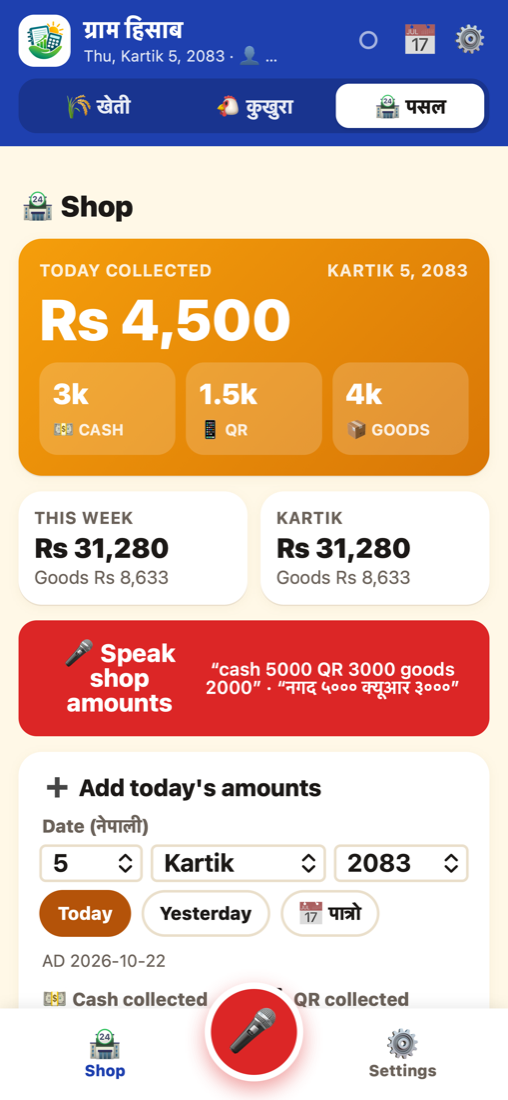
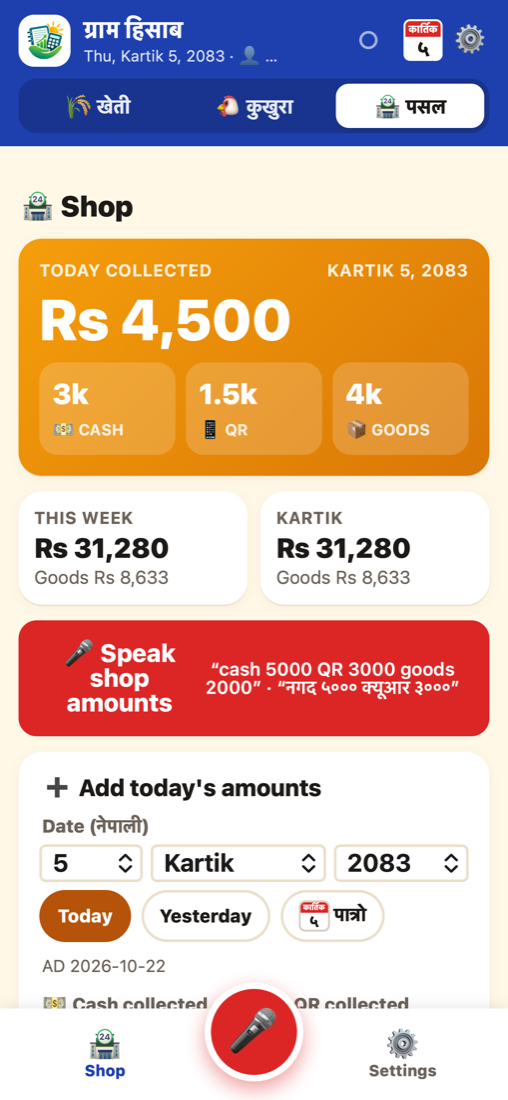
Patro: today's Nepali date on the calendar button and chips; today filled green with आज in the grid

diff --git a/assets/ui.js b/assets/ui.js
@@ -57,6 +57,7 @@ function renderHeader() {
   const t = today(), b = adToBs(t), d = new Date();
   $('#topDate').textContent = DAY[d.getDay()] + ', ' + BS_MONTHS[b.m - 1] + ' ' + b.d + ', ' + b.y + ' · 👤 ' + currentUser();
   $('#priceChip').innerHTML = '💰 Prices';
+  $('#calBtn').innerHTML = calTile(true);
   $('#priceChip').classList.toggle('hidden', section !== 'poultry');
   if (isOldApp()) $('.appname').textContent = 'ग्राम हिसाब (पुरानो)';
   updateSyncDot();
@@ -690,7 +691,7 @@ function openDay(date, lotId, fromCal) {
   const sh = shopSum(shop);
   const kh = lotId || !fromCal ? { line: '', list: '' } : dayKhetiHtml(date);
   const wd = WEEK_NE[weekday(date)] + 'बार', bb = adToBs(date);
-  openSheet(`${lot ? `<button class="btn sm ghost" data-act="openLot" data-id="${lot.id}">‹ Back to ${esc(lot.name)}</button>` : `<button class="btn sm ghost" data-act="openCalendar" data-d="${date}">‹ 📅 ${BS_MONTHS_NE[bb.m - 1]} ${neNum(bb.y)}</button>`}
+  openSheet(`${lot ? `<button class="btn sm ghost" data-act="openLot" data-id="${lot.id}">‹ Back to ${esc(lot.name)}</button>` : `<button class="btn sm ghost" data-act="openCalendar" data-d="${date}">‹ ${calTile()} ${BS_MONTHS_NE[bb.m - 1]} ${neNum(bb.y)}</button>`}
     <h2>${fmtDate(date, true)}${lot ? ' · ' + esc(lot.name) : ''}</h2>
     <div class="small muted" style="margin:-6px 0 10px">${BS_MONTHS_NE[bb.m - 1]} ${neNum(bb.d)}, ${neNum(bb.y)} · ${wd} · AD ${date}</div>
     <div class="summary">
@@ -1042,7 +1043,7 @@ function bsDateHtml(key, adIso) {
     <div class="row between" style="margin-top:6px">
       <div class="chips"><button class="chip sm ${adIso === today() ? 'on' : ''}" data-act="bsQuick" data-key="${key}" data-days="0">Today</button>
       <button class="chip sm ${adIso === addDays(today(), -1) ? 'on' : ''}" data-act="bsQuick" data-key="${key}" data-days="-1">Yesterday</button>
-      <button class="chip sm" data-act="bsCalToggle" data-key="${key}">📅 पात्रो</button></div>
+      <button class="chip sm" data-act="bsCalToggle" data-key="${key}">${calTile()} पात्रो</button></div>
       <span class="hint" data-bshint="${key}">AD ${adIso}</span>
     </div>
     <div data-bscalbox="${key}"></div>`;

diff --git a/assets/calendar.js b/assets/calendar.js
@@ -12,6 +12,7 @@ const AD_MON = ['Jan', 'Feb', 'Mar', 'Apr', 'May', 'Jun', 'Jul', 'Aug', 'Sep', '
 const POULTRY_KINDS = ['sale', 'grainsale', 'purchase', 'event'];
 const weekday = ad => new Date(ad + 'T12:00:00').getDay();
 let calYM = null;
+function calTile(big) { const b = adToBs(today()); return `<span class="caltile${big ? ' big' : ''}"><i>${BS_MONTHS_NE[b.m - 1]}</i><b>${neNum(b.d)}</b></span>`; }
 
 // money spent on Kheti by one record (wages, machine + fuel, seed / fertilizer)
 function khetiCostOf(r) {
@@ -48,7 +49,7 @@ function calGridHtml(y, m, o) {
   for (let d = 1; d <= n; d++) {
     const ad = addDays(first, d - 1), mk = marks[ad] || {}, wd = weekday(ad);
     const cls = ['cal-d', ad === t ? 'today' : '', ad === o.selected ? 'sel' : '', wd === 6 ? 'sat' : '', o.maxDate && ad > o.maxDate ? 'off' : ''].filter(Boolean).join(' ');
-    cells += `<button class="${cls}" data-act="${o.act}" data-d="${ad}"${o.key ? ` data-key="${o.key}"` : ''}><b>${neNum(d)}</b><small>${Number(ad.slice(8))}</small>${o.marks ? `<i>${mk.kheti ? '<u class="dk"></u>' : ''}${mk.poultry ? '<u class="dp"></u>' : ''}${mk.shop ? '<u class="ds"></u>' : ''}</i>` : ''}</button>`;
+    cells += `<button class="${cls}" data-act="${o.act}" data-d="${ad}"${o.key ? ` data-key="${o.key}"` : ''}><b>${neNum(d)}</b><small>${ad === t ? 'आज' : Number(ad.slice(8))}</small>${o.marks ? `<i>${mk.kheti ? '<u class="dk"></u>' : ''}${mk.poultry ? '<u class="dp"></u>' : ''}${mk.shop ? '<u class="ds"></u>' : ''}</i>` : ''}</button>`;
   }
   return `<div class="cal-grid">${WEEK_NE.map((w, i) => `<span class="cal-h${i === 6 ? ' sat' : ''}">${w}</span>`).join('')}${cells}</div>`;
 }

diff --git a/assets/app.css b/assets/app.css
@@ -261,3 +261,18 @@ u.dk{background:#16A34A}u.dp{background:#F59E0B}u.ds{background:#2563EB}
 #top .brand>div{min-width:0}
 #top .topright{flex:none}
 @media (max-width:400px){ #top .pricechip{padding:6px 8px;font-size:12px} #top .iconbtn{width:34px} }
+
+/* today's date on a little calendar page */
+.caltile{display:inline-flex;flex-direction:column;align-items:center;justify-content:flex-start;width:24px;height:24px;border-radius:5px;overflow:hidden;background:#fff;border:1.5px solid #d6cfc2;vertical-align:middle;line-height:1}
+.caltile i{display:block;width:100%;background:var(--red);color:#fff;font-style:normal;font-size:6px;font-weight:900;text-align:center;padding:1px 0;white-space:nowrap;overflow:hidden}
+.caltile b{font-size:12px;font-weight:900;color:var(--ink);margin-top:1px}
+.caltile.big{width:30px;height:32px;border-color:#fff}
+.caltile.big i{font-size:8px;padding:2px 0}
+.caltile.big b{font-size:16px;margin-top:1px}
+.cal-d.today{background:var(--green);border-color:var(--green);box-shadow:0 0 0 3px var(--green-l)}
+.cal-d.today b,.cal-d.today small,.cal-d.today.sat b{color:#fff}
+.cal-d.today small{font-weight:900}
+.cal-d.sel:not(.today){background:var(--amber);border-color:var(--amber)}
+.cal-d{padding-bottom:10px}
+.cal-d i{bottom:2px}
+.cal-d.today u{box-shadow:0 0 0 1.5px #fff}

diff --git a/assets/index.html b/assets/index.html
@@ -18,7 +18,7 @@
   <div class="topright">
     <button class="pricechip" id="priceChip" data-act="editPrice"></button>
     <button class="iconbtn" id="syncBtn" data-act="syncNow" aria-label="Sync"><span id="syncDot" class="dot off"></span></button>
-    <button class="iconbtn" data-act="openCalendar" aria-label="Nepali calendar">📅</button>
+    <button class="iconbtn" id="calBtn" data-act="openCalendar" aria-label="Nepali calendar (patro)"></button>
     <button class="iconbtn" data-act="go" data-view="settings" aria-label="Settings">⚙</button>
   </div>
   <div id="secbar" class="secbar"></div>

diff --git a/assets/core.js b/assets/core.js
@@ -2,7 +2,7 @@
 'use strict';
 
 const HAS_ANDROID = typeof window.Android !== 'undefined';
-const APP_VERSION = '2.4.0';
+const APP_VERSION = '2.4.1';
 
 // ---------- small utils ----------
 const $ = (sel, el) => (el || document).querySelector(sel);
